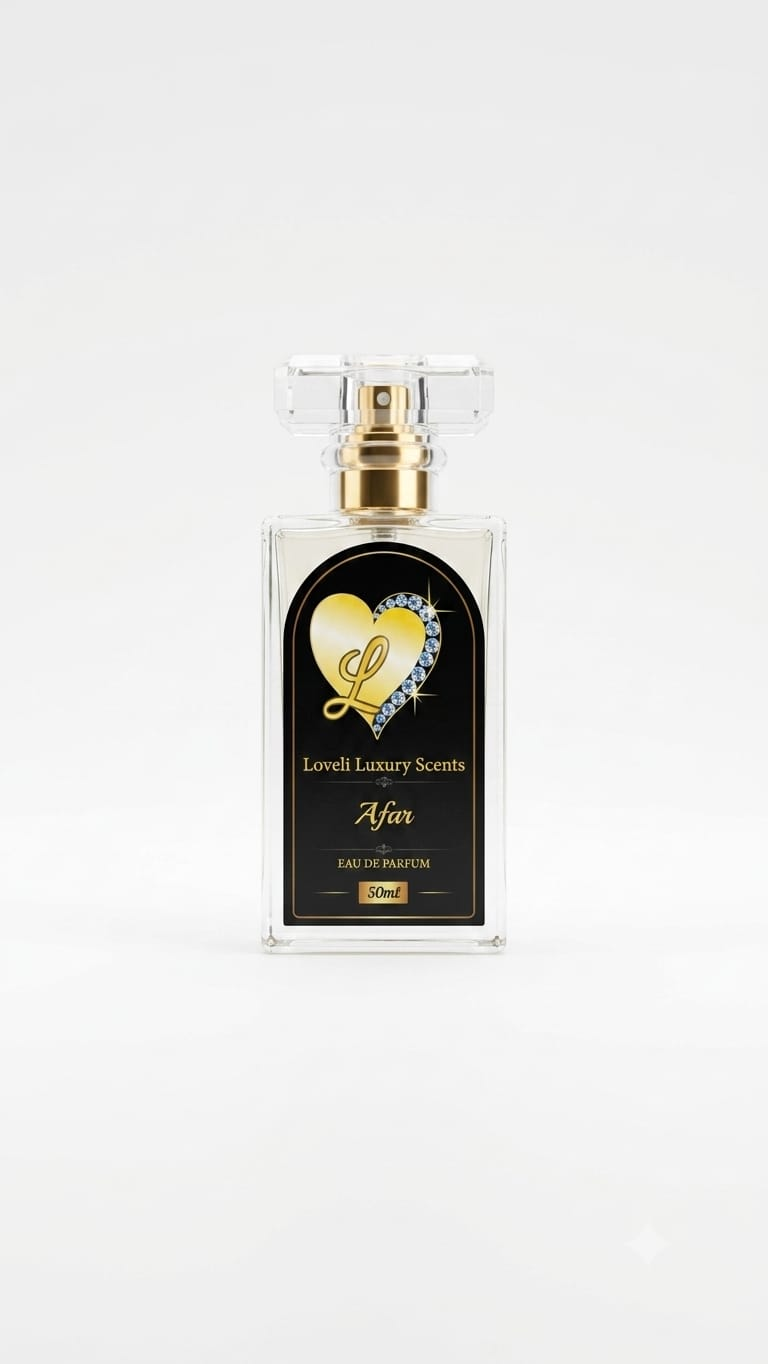
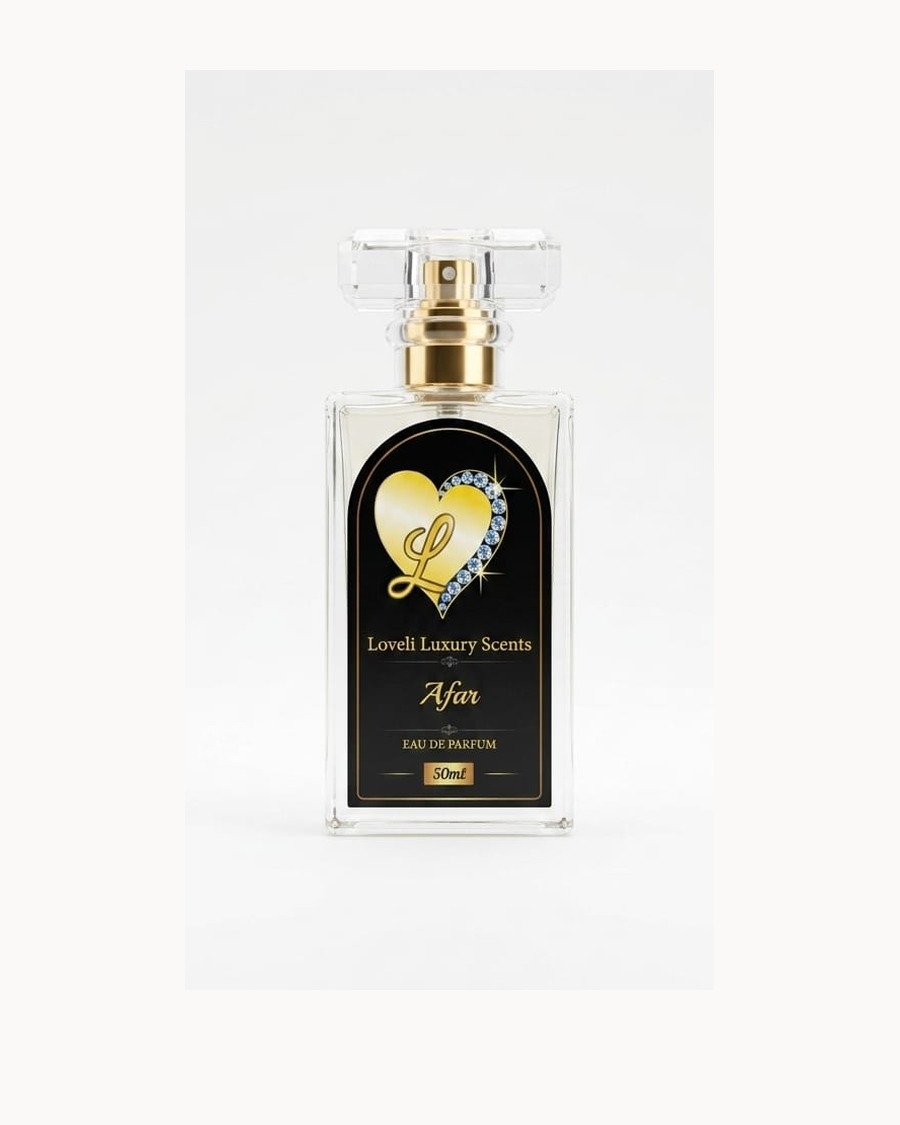
fix: standardize homepage product photo presentation

Changed region(s): [[0.3438, 0.2178, 0.6562, 0.7467]]

diff --git a/src/components/home/FeaturedGrid.tsx b/src/components/home/FeaturedGrid.tsx
@@ -5,34 +5,32 @@ import { FRAGRANCES, type FragranceMeta } from '@/lib/catalog/fragrance-meta'
 const FEATURED_SLUGS = ['pink-allure', 'crimson-noir', 'afar'] as const
 
 function Card({ f, index }: { f: FragranceMeta; index: number }) {
-  const isDark = index === 1
   return (
     <Link
       href={'/p/' + f.slug}
       className={
-        'loveli-reveal-up group relative min-h-[22rem] overflow-hidden border border-[hsl(35_45%_42%/0.24)] p-5 transition duration-300 hover:-translate-y-1 sm:min-h-[28rem] sm:p-7 ' +
-        (isDark ? 'bg-[hsl(22_18%_10%)] text-[hsl(38_52%_87%)]' : 'bg-[hsl(38_42%_93%)] text-[hsl(22_18%_12%)]') +
+        'loveli-reveal-up group relative min-h-[22rem] overflow-hidden border border-[hsl(35_45%_42%/0.24)] bg-[hsl(38_42%_93%)] p-5 text-[hsl(22_18%_12%)] transition duration-300 hover:-translate-y-1 hover:border-[hsl(35_45%_42%/0.62)] sm:min-h-[28rem] sm:p-7 ' +
         (index === 0 ? ' md:col-span-6' : ' md:col-span-3')
       }
     >
-      <div className="loveli-sheen absolute inset-5 overflow-hidden bg-white/85 sm:inset-7">
-        <Image
-          src={f.image}
-          alt={f.name}
-          fill
-          sizes="(max-width: 768px) 92vw, (max-width: 1280px) 46vw, 360px"
-          quality={72}
-          className="object-cover mix-blend-multiply transition duration-700 ease-out group-hover:scale-[1.04]"
-        />
+      <div className="absolute inset-x-5 top-5 flex justify-center sm:inset-x-7 sm:top-7">
+        <div className="loveli-sheen relative aspect-[4/5] w-full max-w-[15rem] overflow-hidden bg-white/90">
+          <Image
+            src={f.image}
+            alt={f.name}
+            fill
+            sizes="(max-width: 768px) 78vw, 240px"
+            quality={78}
+            className="object-contain mix-blend-multiply transition duration-700 ease-out group-hover:scale-[1.035]"
+          />
+        </div>
       </div>
       <div className="relative z-10 flex min-h-[19rem] flex-col justify-between sm:min-h-[25rem]">
-        <p className={'text-[9px] font-semibold uppercase tracking-[0.28em] ' + (isDark ? 'text-[hsl(35_58%_67%)]' : 'text-[hsl(35_45%_42%)]')}>
-          {f.family}
-        </p>
-        <div className={'mt-auto max-w-[17rem] border-l pl-4 ' + (isDark ? 'border-[hsl(35_58%_67%/0.65)]' : 'border-[hsl(35_45%_42%/0.55)]')}>
+        <p className="text-[9px] font-semibold uppercase tracking-[0.28em] text-[hsl(35_45%_42%)]">{f.family}</p>
+        <div className="mt-auto max-w-[17rem] border-l border-[hsl(35_45%_42%/0.55)] pl-4">
           <h3 className="font-serif text-3xl leading-none tracking-tight sm:text-4xl">{f.name}</h3>
-          <p className={'mt-2 text-sm italic ' + (isDark ? 'text-[hsl(38_52%_87%/0.78)]' : 'text-[hsl(22_12%_28%)]')}>{f.tagline}</p>
-          <span className={'mt-4 inline-flex text-[9px] font-semibold uppercase tracking-[0.24em] underline-offset-4 group-hover:underline ' + (isDark ? 'text-[hsl(35_58%_67%)]' : 'text-[hsl(35_45%_42%)]')}>
+          <p className="mt-2 text-sm italic text-[hsl(22_12%_28%)]">{f.tagline}</p>
+          <span className="mt-4 inline-flex text-[9px] font-semibold uppercase tracking-[0.24em] text-[hsl(35_45%_42%)] underline-offset-4 group-hover:underline">
             Discover the scent →
           </span>
         </div>
